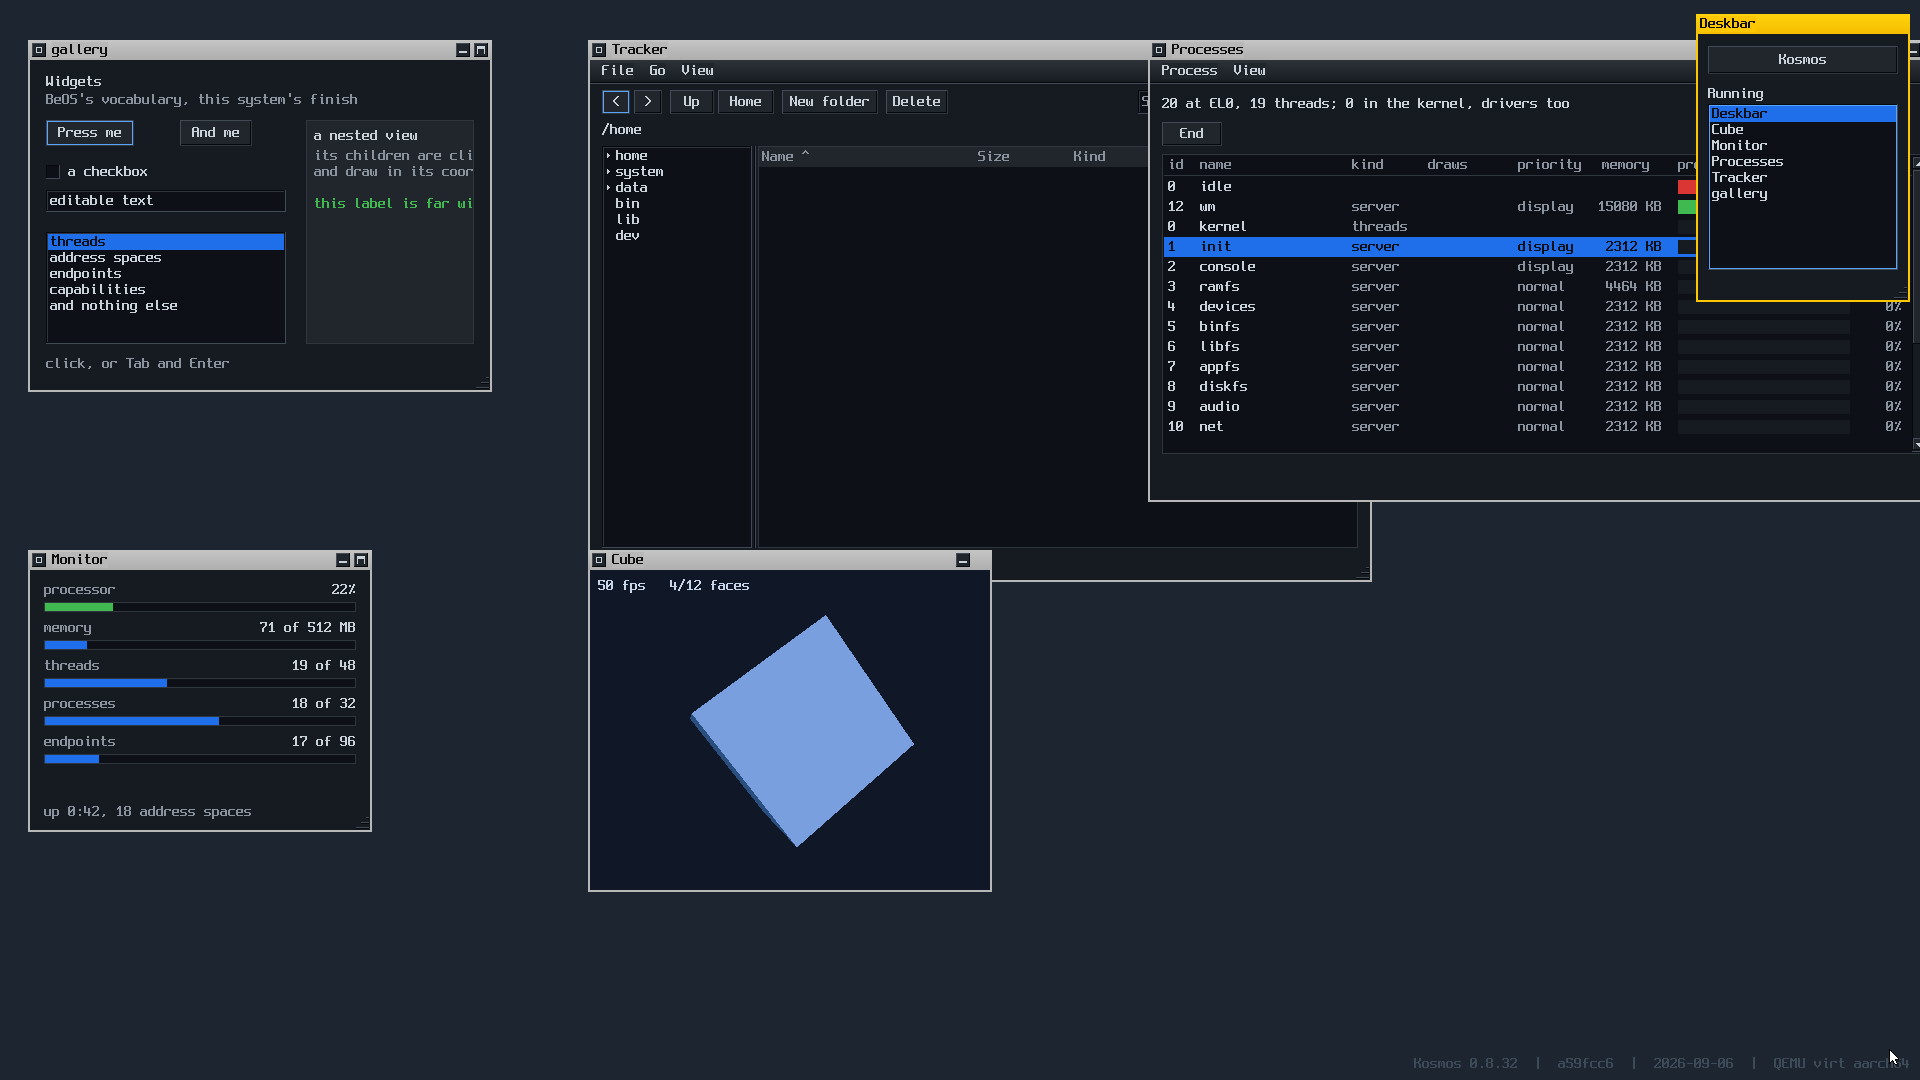
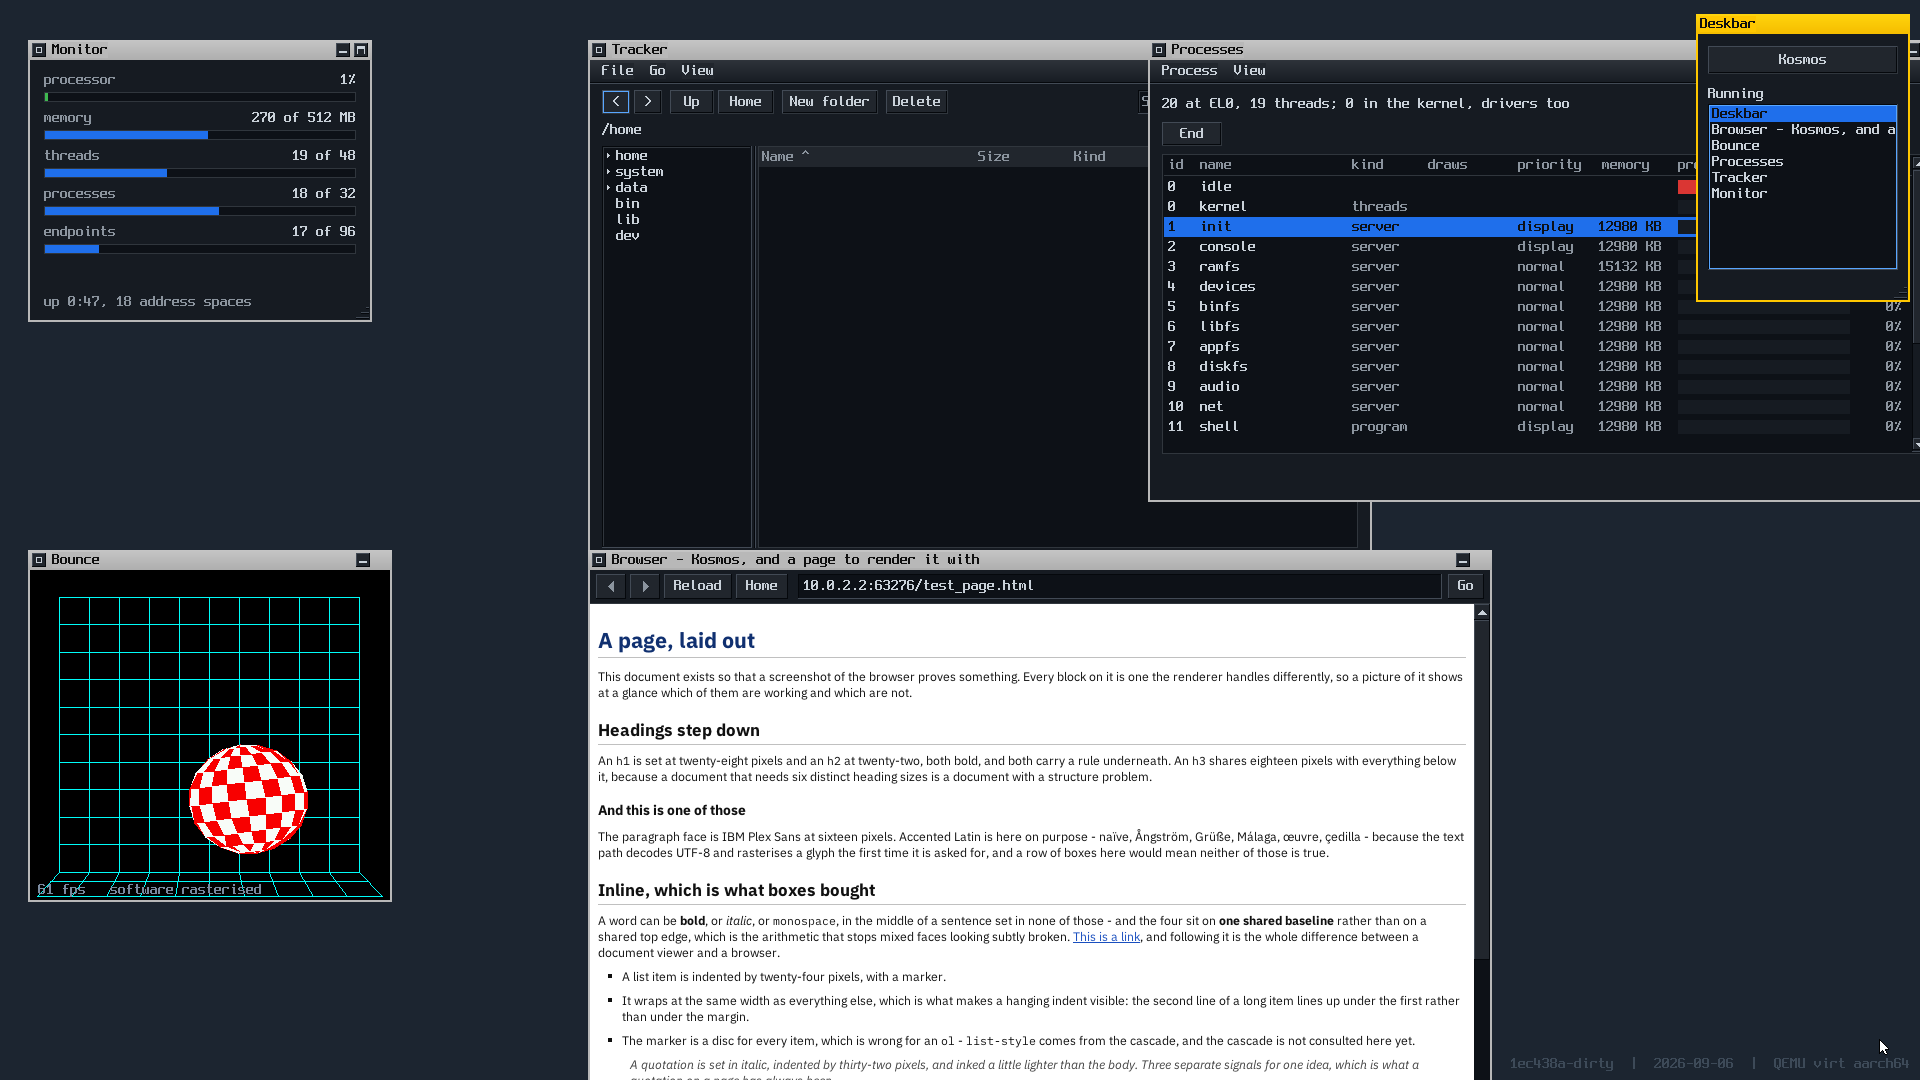
A page that says what this is, and three more pictures of it
**What it is not**, because that is half of what it is: not Unix and not
POSIX - no fork, no exec, no signals, no pipes, no sockets, no file
descriptors, and no path reachable without being handed a namespace. Not
Windows and not macOS, with nothing trying to be familiar. Not AmigaOS,
whose lack of memory protection is the thing this is furthest from. And not
a BeOS clone, though BeOS is the reference: that one was monolithic, with
the drivers and the filesystem inside the kernel.

**What it is**: the best ideas from all of them - one person's judgement of
which - and some new ones, in a single system, free of any obligation to be
compatible with any of them. Which is the only reason that combination is
possible.

**BeOS gets its own section**, because it is the reference rather than one
influence among several. The tab as wide as its title, the Deskbar,
replicants, attributes with live queries, and responsiveness as a design
constraint rather than an optimisation.

**And what it is trying to be**: modern, secure, fast, lean, modular, and
easy to write applications on - the last of which is what the other five are
for. C for speed and simplicity, Lua for writing applications: a syntax you
can hold in your head and no compiler, so an application is a text file in
`/bin` and the editor on the desktop is enough to add one. A blank canvas
without a toolchain, where most systems ask for gigabytes of compilers
before the machine will do something new.
[…]

diff --git a/docs/index.html b/docs/index.html
@@ -208,9 +208,11 @@ out: the newest published image, the runner, and a disk to keep files on.</p>
   <img src="desktop.png" alt="The Kosmos desktop: a file manager, a widget
        gallery, a process list, a system monitor and a spinning 3D cube,
        with the Deskbar at the top right.">
-  <figcaption>The desktop. The cube is software-rendered at 50 fps with the
-  processor at 22% — the demos sleep between frames on purpose, so an idle
-  machine is idle.</figcaption>
+  <figcaption>Tracker, the process list, the system monitor, a
+  software-rendered bouncing sphere and the browser, laid out by
+  <code>tile</code> — arranging windows is the system's own job, and a
+  handle names exactly one window where dragging from outside would depend
+  on the stacking order.</figcaption>
 </figure>
 
 <h2>What it is trying to be</h2>
@@ -350,6 +352,22 @@ Deskbar.</td></tr>
   <figcaption>The browser. Headings, inline bold, italic and monospace on a
   shared baseline, list markers, and links you can click — laid out and
   painted by about a thousand lines of C on top of NetSurf's parsers.</figcaption>
+</figure>
+
+<figure>
+  <img src="network.png" alt="The web server, the network configuration, a
+       terminal and glgears running at once on the Kosmos desktop.">
+  <figcaption>The web server, the network settings, a terminal, and glxgears
+  at 61 fps in software. The address is 10.0.2.15 and the gateway 10.0.2.2 —
+  QEMU's NAT, which is enough to reach the real internet.</figcaption>
+</figure>
+
+<figure>
+  <img src="demos.png" alt="Six graphical demos running at once: a teapot, a
+       mech, a plasma effect, a cube and a bouncing textured sphere.">
+  <figcaption>Six things drawing at once, all of it software rasterised
+  through TinyGL, all of it at 41 fps. There is no GPU driver — the
+  compositor blits at about 6.5 ns a pixel.</figcaption>
 </figure>
 
 <h2>Where it is</h2>
